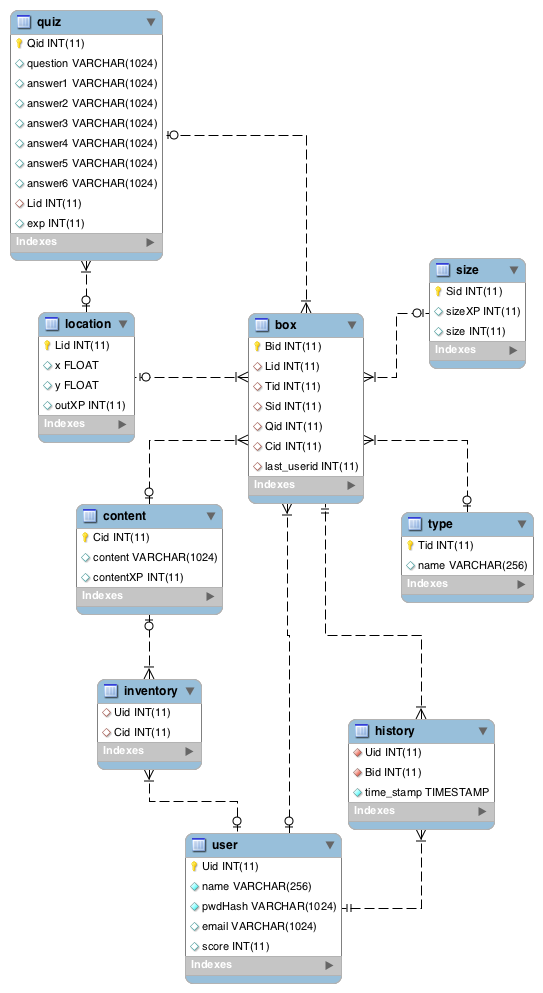
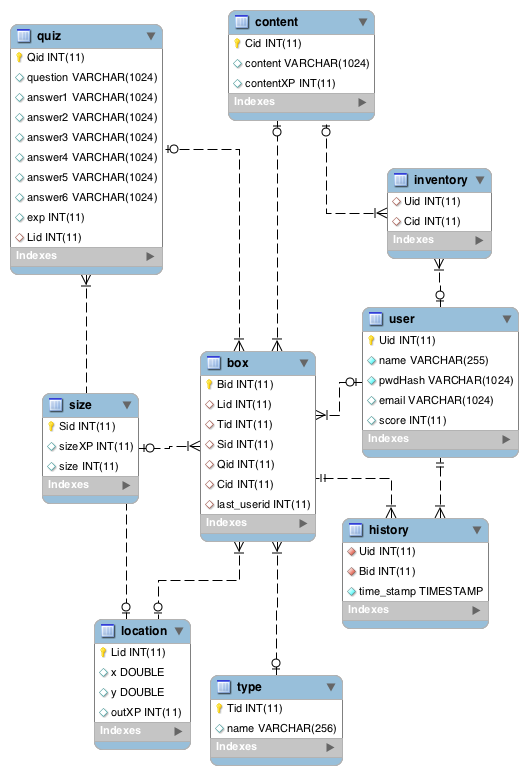
changed location to double in DB and fixed equals Methods

diff --git a/Server/src/test/java/DatabaseControllerTreasuresTest.java b/Server/src/test/java/DatabaseControllerTreasuresTest.java
@@ -16,7 +16,7 @@ public class DatabaseControllerTreasuresTest {
 	@Before
 	public void initialize() {
 		// TODO add more test data
-		Quiz quiz1 = new Quiz("Aus was für einem Gebäude entstand das Landestheater?", "Ballspielhaus", "Rathaus", "Bank", "Konzerthaus", null, null);
+		Quiz quiz1 = new Quiz(10,"Aus was für einem Gebäude entstand das Landestheater?", "Ballspielhaus", "Rathaus", "Bank", "Konzerthaus", null, null);
 		exampleTreasuresID = new ArrayList<Integer>();
 		exampleTreasures = new ArrayList<Treasure>();
 		exampleTreasures.add(new Treasure(new Treasure.Location(10, 47.26952, 11.39570), quiz1, new Treasure.Size(-1, 20, 1), null));
@@ -35,10 +35,10 @@ public class DatabaseControllerTreasuresTest {
 
 	@Test
 	public void saveTreasureTest() {
-		Quiz quiz1 = new Quiz("Aus was für einem Gebäude entstand das Landestheater?", "Ballspielhaus", "Rathaus", "Bank", null, "Konzerthaus", null);
-		Quiz quiz2 = new Quiz("Aus was für einem Gebäude entstand das Landestheater?", "Ballspielhaus", null, "Bank", null, "Konzerthaus", null);
-		Quiz quiz3 = new Quiz("Aus was für einem Gebäude entstand das Landestheater?", null, "Ballspielhaus", "Bank", null, "Konzerthaus", null);
-		Quiz quiz4 = new Quiz(null, "Bank", "Ballspielhaus", "Bank", null, "Konzerthaus", null);
+		Quiz quiz1 = new Quiz(10,"Aus was für einem Gebäude entstand das Landestheater?", "Ballspielhaus", "Rathaus", "Bank", null, "Konzerthaus", null);
+		Quiz quiz2 = new Quiz(10,"Aus was für einem Gebäude entstand das Landestheater?", "Ballspielhaus", null, "Bank", null, "Konzerthaus", null);
+		Quiz quiz3 = new Quiz(10,"Aus was für einem Gebäude entstand das Landestheater?", null, "Ballspielhaus", "Bank", null, "Konzerthaus", null);
+		Quiz quiz4 = new Quiz(10, null, "Bank", "Ballspielhaus", "Bank", null, "Konzerthaus", null);
 		try {
 			DatabaseController.getInstance().saveTreasure(new Treasure(new Treasure.Location(10, 47.26952, 11.39570), quiz1, new Treasure.Size(-1, 20, 1), null));
 			fail("an exception should be thrown");
@@ -71,7 +71,7 @@ public class DatabaseControllerTreasuresTest {
 
 	@Test
 	public void deleteTreasureTest() {
-		Quiz quiz1 = new Quiz("Aus was für einem Gebäude entstand das Landestheater?", "Ballspielhaus", "Rathaus", "Bank", "Konzerthaus", null, null);
+		Quiz quiz1 = new Quiz(10, "Aus was für einem Gebäude entstand das Landestheater?", "Ballspielhaus", "Rathaus", "Bank", "Konzerthaus", null, null);
 		int id = DatabaseController.getInstance().saveTreasure(new Treasure(new Treasure.Location(10, 47.26952, 11.39570), quiz1, new Treasure.Size(-1, 20, 1), null));
 		DatabaseController.getInstance().deleteTreasure(id);
 		List<Treasure> result = DatabaseController.getInstance().getAllTreasures(false);
@@ -116,8 +116,9 @@ public class DatabaseControllerTreasuresTest {
 			assertEquals("the treasure with id: " + i + " is not equal to the id: " + t.getId() + "!", (Integer)t.getId(), i);
 		}
 		Collections.sort(result);
-		for(int i = 0; i < exampleTreasures.size(); i++)
-			assertTrue("the treasures aren't equal", exampleTreasures.get(i).equalsWithoutId(result.get(i)));
+		for(int i = 0; i < exampleTreasures.size(); i++) {
+			assertTrue("the treasures aren't equal: \n" + result.get(i) + "\n" + exampleTreasures.get(i), exampleTreasures.get(i).equalsWithoutId(result.get(i)));
+		}
 	}
 
 	@Test

diff --git a/Server/src/main/java/db/manager/DatabaseManager.java b/Server/src/main/java/db/manager/DatabaseManager.java
@@ -12,6 +12,7 @@ import org.jooq.Record;
 import org.jooq.Result;
 import org.jooq.SQLDialect;
 import org.jooq.impl.DSL;
+import org.jooq.types.Unsigned;
 
 import data_structures.treasure.*;
 import data_structures.treasure.Treasure.*;
@@ -99,7 +100,7 @@ public class DatabaseManager {
 	}
 
 
-	public static Integer insertBox(int lid, Integer tid, int sid, Integer qid, Integer cid) throws SQLException {
+	public static Integer insertBox(Integer lid, Integer tid, int sid, Integer qid, Integer cid) throws SQLException {
 		Connection conn = getConnection();
 		DSLContext create = DSL.using(conn, SQLDialect.MYSQL);
 		Record record = create.insertInto(BOX, BOX.LID, BOX.TID, BOX.SID, BOX.QID, BOX.CID).values(lid, tid, sid, qid, cid).returning(BOX.BID).fetchOne();
@@ -107,7 +108,7 @@ public class DatabaseManager {
 		return record.getValue(BOX.BID);
 	}
 
-	public static Integer insertQuiz(String question, String correct1, String answer2, String answer3, String answer4, String answer5, String answer6,int exp, int lid) throws SQLException, IllegalArgumentException {
+	public static Integer insertQuiz(String question, String correct1, String answer2, String answer3, String answer4, String answer5, String answer6,int exp, Integer lid) throws SQLException, IllegalArgumentException {
 		// check if the quiz and answer pattern is correct
 		if (correct1 == null || question == null)
 			throw new IllegalArgumentException("no correct answer or question given!");
@@ -335,9 +336,9 @@ public class DatabaseManager {
 			String answer4 = r.getValue(QUIZ.ANSWER4);
 			String answer5 = r.getValue(QUIZ.ANSWER5);
 			String answer6 = r.getValue(QUIZ.ANSWER6);
+			Integer exp = r.getValue(QUIZ.EXP);
 			Integer lid = r.getValue(QUIZ.LID);
-			Quiz tmp = new Quiz(id, lid, question, answer1, answer2, answer3, answer4, answer5, answer6);
-			tmp.setXP(r.getValue(QUIZ.EXP));
+			Quiz tmp = new Quiz(id, lid, exp, question, answer1, answer2, answer3, answer4, answer5, answer6);
 			out.add(tmp);
 		}
 
@@ -360,7 +361,7 @@ public class DatabaseManager {
 			Double x = r.getValue(LOCATION.X);
 			Double y = r.getValue(LOCATION.Y);
 			Integer outXP = r.getValue(LOCATION.OUTXP);
-			Location tmp = new Location(id, outXP, x, y);
+			Location tmp = new Location(id, outXP, y, x);
 			out.add(tmp);
 		}
 

diff --git a/Server/src/main/java/data_structures/treasure/Quiz.java b/Server/src/main/java/data_structures/treasure/Quiz.java
@@ -28,8 +28,9 @@ public class Quiz extends Treasure.Type implements Serializable{
 	 * @param answer5
 	 * @param answer6
 	 */
-	public Quiz(int quizId, Integer lid, String question, String answer1, String answer2,
+	public Quiz(int quizId, Integer lid, int exp, String question, String answer1, String answer2,
 	            String answer3, String answer4, String answer5, String answer6) {
+		super.setXP(exp);
 		this.id = quizId;
 		this.lid = lid;
 		this.question = question;
@@ -40,9 +41,10 @@ public class Quiz extends Treasure.Type implements Serializable{
 		this.answer5 = answer5;
 		this.answer6 = answer6;
 	}
-	public Quiz(int id, int quizId, Integer lid, String question, String answer1, String answer2,
+	public Quiz(int id, int quizId, Integer lid, int exp, String question, String answer1, String answer2,
 			String answer3, String answer4, String answer5, String answer6) {
 		super.setId(id);
+		super.setXP(exp);
 		this.id = quizId;
 		this.lid = lid;
 		this.question = question;
@@ -54,9 +56,9 @@ public class Quiz extends Treasure.Type implements Serializable{
 		this.answer6 = answer6;
 	}
 
-	public Quiz(String question, String answer1, String answer2,
+	public Quiz(int exp, String question, String answer1, String answer2,
 			String answer3, String answer4, String answer5, String answer6) {
-		this(-1, -1, -1, question, answer1, answer2, answer3, answer4, answer5, answer6);
+		this(-1, -1, -1, exp, question, answer1, answer2, answer3, answer4, answer5, answer6);
 	}
 
 	public String getQuestion() {
@@ -110,11 +112,12 @@ public class Quiz extends Treasure.Type implements Serializable{
 	public String getType() {
 		return "QUIZ";
 	}
-
+	
+	@Override
 	public boolean equalsWithoutId(Object o) {
 		if (this == o) return true;
 		if (o == null || getClass() != o.getClass()) return false;
-		if (!super.equals(o)) return false;
+		if (!super.equalsWithoutId(o)) return false;
 
 		Quiz quiz = (Quiz) o;
 

diff --git a/Server/src/main/java/data_structures/treasure/Treasure.java b/Server/src/main/java/data_structures/treasure/Treasure.java
@@ -53,6 +53,14 @@ public class Treasure implements ExperiencePointHolder, IdHolder, Comparable<Tre
 	public int getXP() {
 		return 0;
 	}
+	
+	@Override
+	public String toString () {
+		String out = "bid: " + this.getId() + " lat: " + this.getLocation().getLat() + " lon: "  + this.getLocation().getLon() +
+				"\ntype: " + this.getType().getType() + " " + getType().toString() +
+				"\nsize: " + this.getSize().getSize() + " size exp: " + this.getSize().getXP();
+		return out;
+	}
 
 	public boolean equalsWithoutId(Object o) {
 		if (this == o) return true;
@@ -60,10 +68,9 @@ public class Treasure implements ExperiencePointHolder, IdHolder, Comparable<Tre
 
 		Treasure treasure = (Treasure) o;
 
-		if (id != treasure.id) return false;
-		if (!location.equalsWithoutId(treasure.location)) return false;
-		if (!type.equalsWithoutId(treasure.type)) return false;
-		if (!size.equalsWithoutId(treasure.size)) return false;
+		if (!location.equalsWithoutId(treasure.location)) return false; //TODO broken
+		if (!type.equalsWithoutId(treasure.type)) return false; //TODO broken
+		if (!size.equalsWithoutId(treasure.size)) return false; 
 		if (content != null ? !content.equals(treasure.content) : treasure.content != null) return false;
 
 		return true;
@@ -135,7 +142,7 @@ public class Treasure implements ExperiencePointHolder, IdHolder, Comparable<Tre
 
 			Type type = (Type) o;
 
-			if (experience != type.experience) return false;
+			if (this.experience != type.experience) return false;
 			return !(getType() != null ? !getType().equals(type.getType()) : type.getType() != null);
 		}
 		@Override
@@ -157,6 +164,8 @@ public class Treasure implements ExperiencePointHolder, IdHolder, Comparable<Tre
 			result = 31 * result + (getType() != null ? getType().hashCode() : 0);
 			return result;
 		}
+		
+
 	}
 
 	public interface Content extends IdHolder, ExperiencePointHolder {

diff --git a/Server/src/main/java/data_structures/treasure/GeoLocation.java b/Server/src/main/java/data_structures/treasure/GeoLocation.java
@@ -51,6 +51,7 @@ public class GeoLocation implements Serializable{
 		return Double.compare(that.lon, lon) == 0;
 
 	}
+	
 
 	@Override
 	public int hashCode() {
